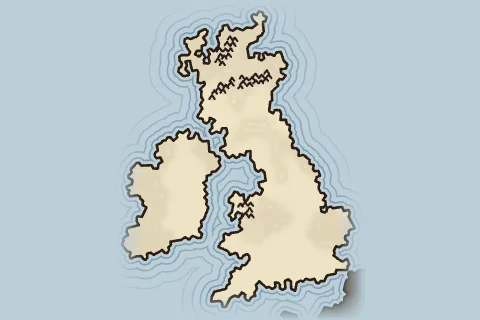
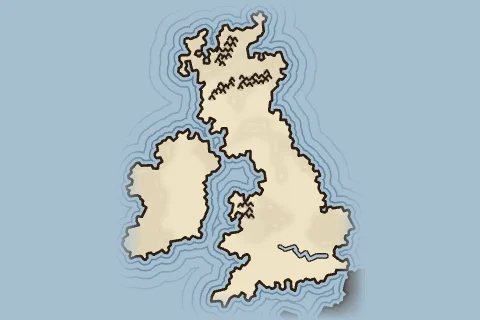
dev: the rivers on the small maps too, the home's card and the atlas's, as on the map, a fine ink; the atlas's pictures drawn again with the deeper sea and the rivers; the plates' script on a page that is
Claude-Session: https://claude.ai/code/session_01Y8nXzWj2NMK5JRUx4Cs7dG

Changed region(s): [[0.25, 0.0, 0.75, 1.0], [0.5625, 0.6875, 0.75, 0.8438], [0.25, 0.5938, 0.3125, 0.7188]]

diff --git a/src/render/sketch.ts b/src/render/sketch.ts
@@ -126,11 +126,7 @@ function sketch(
   const soft = relief(world, at, [width, height], SOFT * ratio)
   g.drawImage(soft, 0, 0, width, height)
   g.restore()
-  // The rivers within the coast, no round end out in the sea.
-  g.save()
-  g.clip(land)
   rivers(g, world, px)
-  g.restore()
   mountains(g, world, px)
   g.lineWidth = INK * px
   g.strokeStyle = css(TONE.ink)
@@ -181,23 +177,29 @@ function boundsOf(world: World) {
 }
 
 /** The high mountains, as the map draws them small (layers/peaks.ts): their ground in stone, and on each of their cells a mount in ink, `px` a pixel of the page in the map's units. */
+/** A river's course in so many stretches, each one stroke as wide as its middle: a few strokes a river, as on the map (ground/rivers.ts). */
+const STRETCHES = 3
+
 /** The rivers, water as the sea's (engine/map/streams.ts): the sea's wash between the coast's ink, as wide as on the map, a line at least. */
 function rivers(g: CanvasRenderingContext2D, world: World, px: number) {
   g.lineCap = 'round'
   g.lineJoin = 'round'
   for (const [extra, color] of [
-    [2 * INK * px, css(TONE.ink)],
+    [INK * px, css(TONE.ink)],
     [0, css(TONE.seaWash)],
   ] as const)
     for (const river of world.rivers) {
       const n = river.length
-      for (let i = 0; i < n - 1; i++) {
-        const wide = (2 * halfWidthAt(i, n) + 0.4) * RULES.tileSize
+      const step = Math.max(1, Math.ceil((n - 1) / STRETCHES))
+      for (let from = 0; from < n - 1; from += step) {
+        const to = Math.min(n - 1, from + step)
+        const wide =
+          (2 * halfWidthAt((from + to) / 2, n) + 0.4) * RULES.tileSize
+        g.beginPath()
+        g.moveTo(...river[from])
+        for (let i = from + 1; i <= to; i++) g.lineTo(...river[i])
         g.lineWidth = Math.max(LINE * px, wide) + extra
         g.strokeStyle = color
-        g.beginPath()
-        g.moveTo(...river[i])
-        g.lineTo(...river[i + 1])
         g.stroke()
       }
     }
